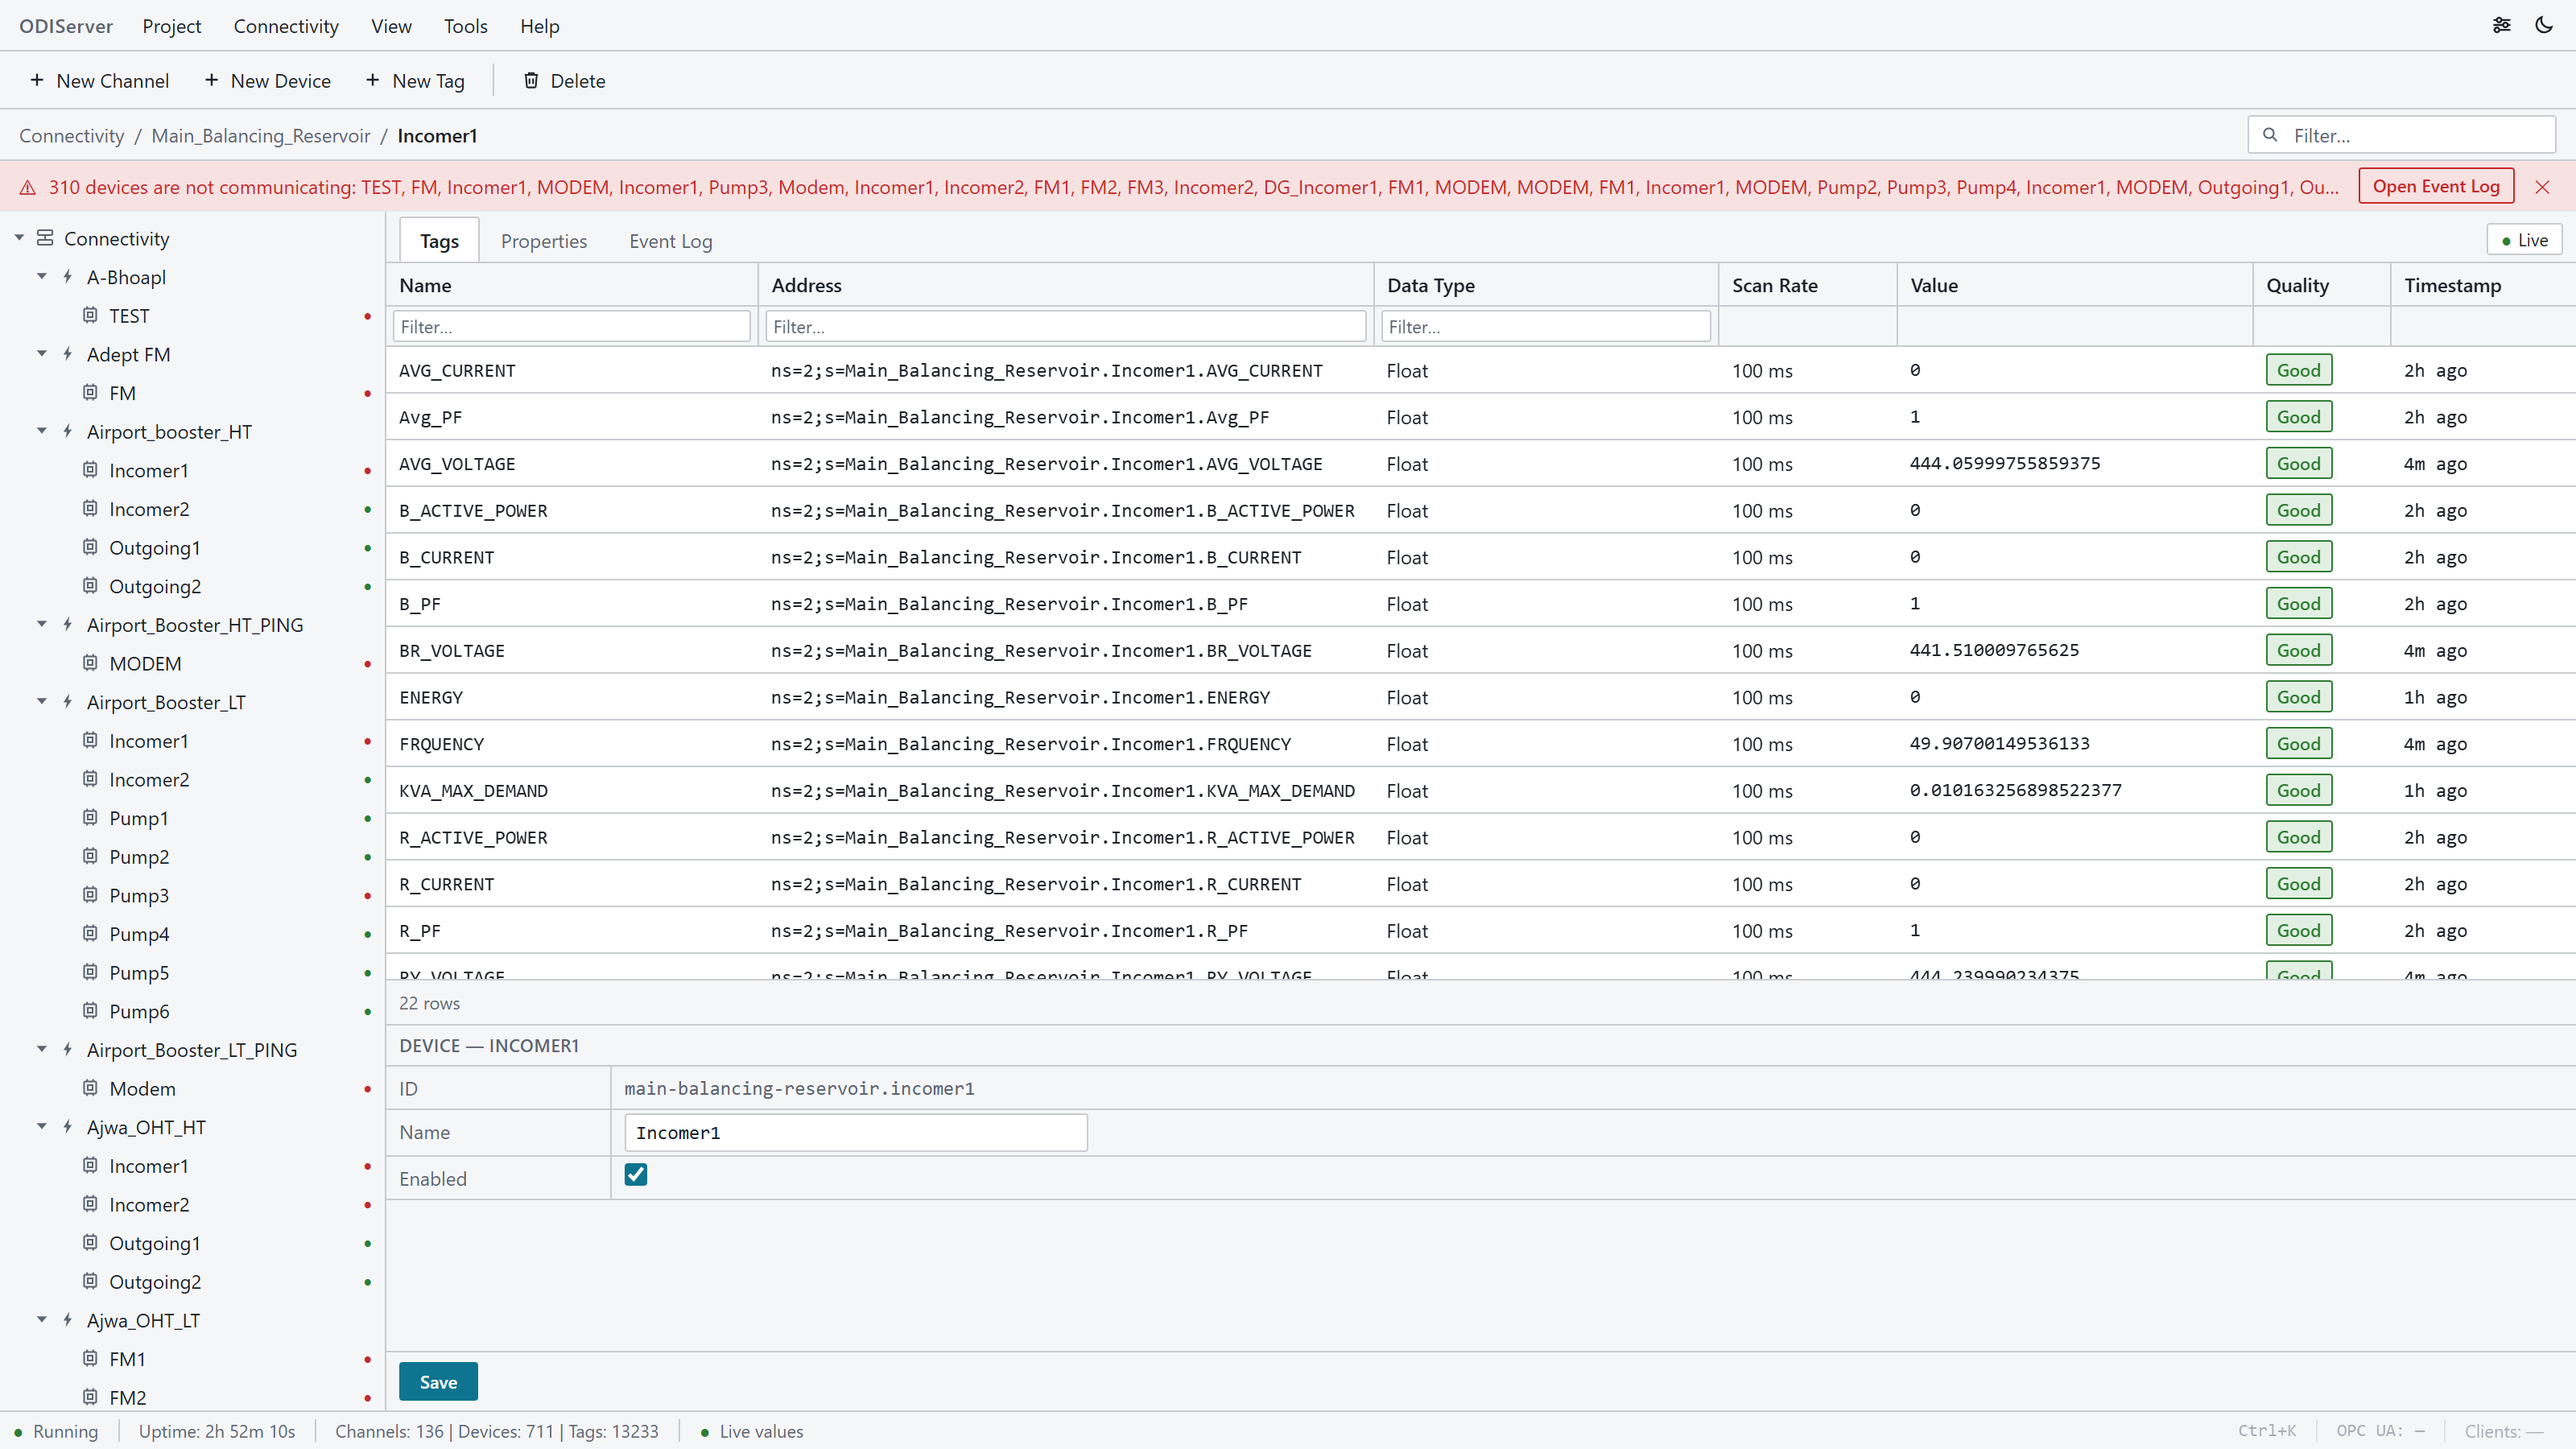
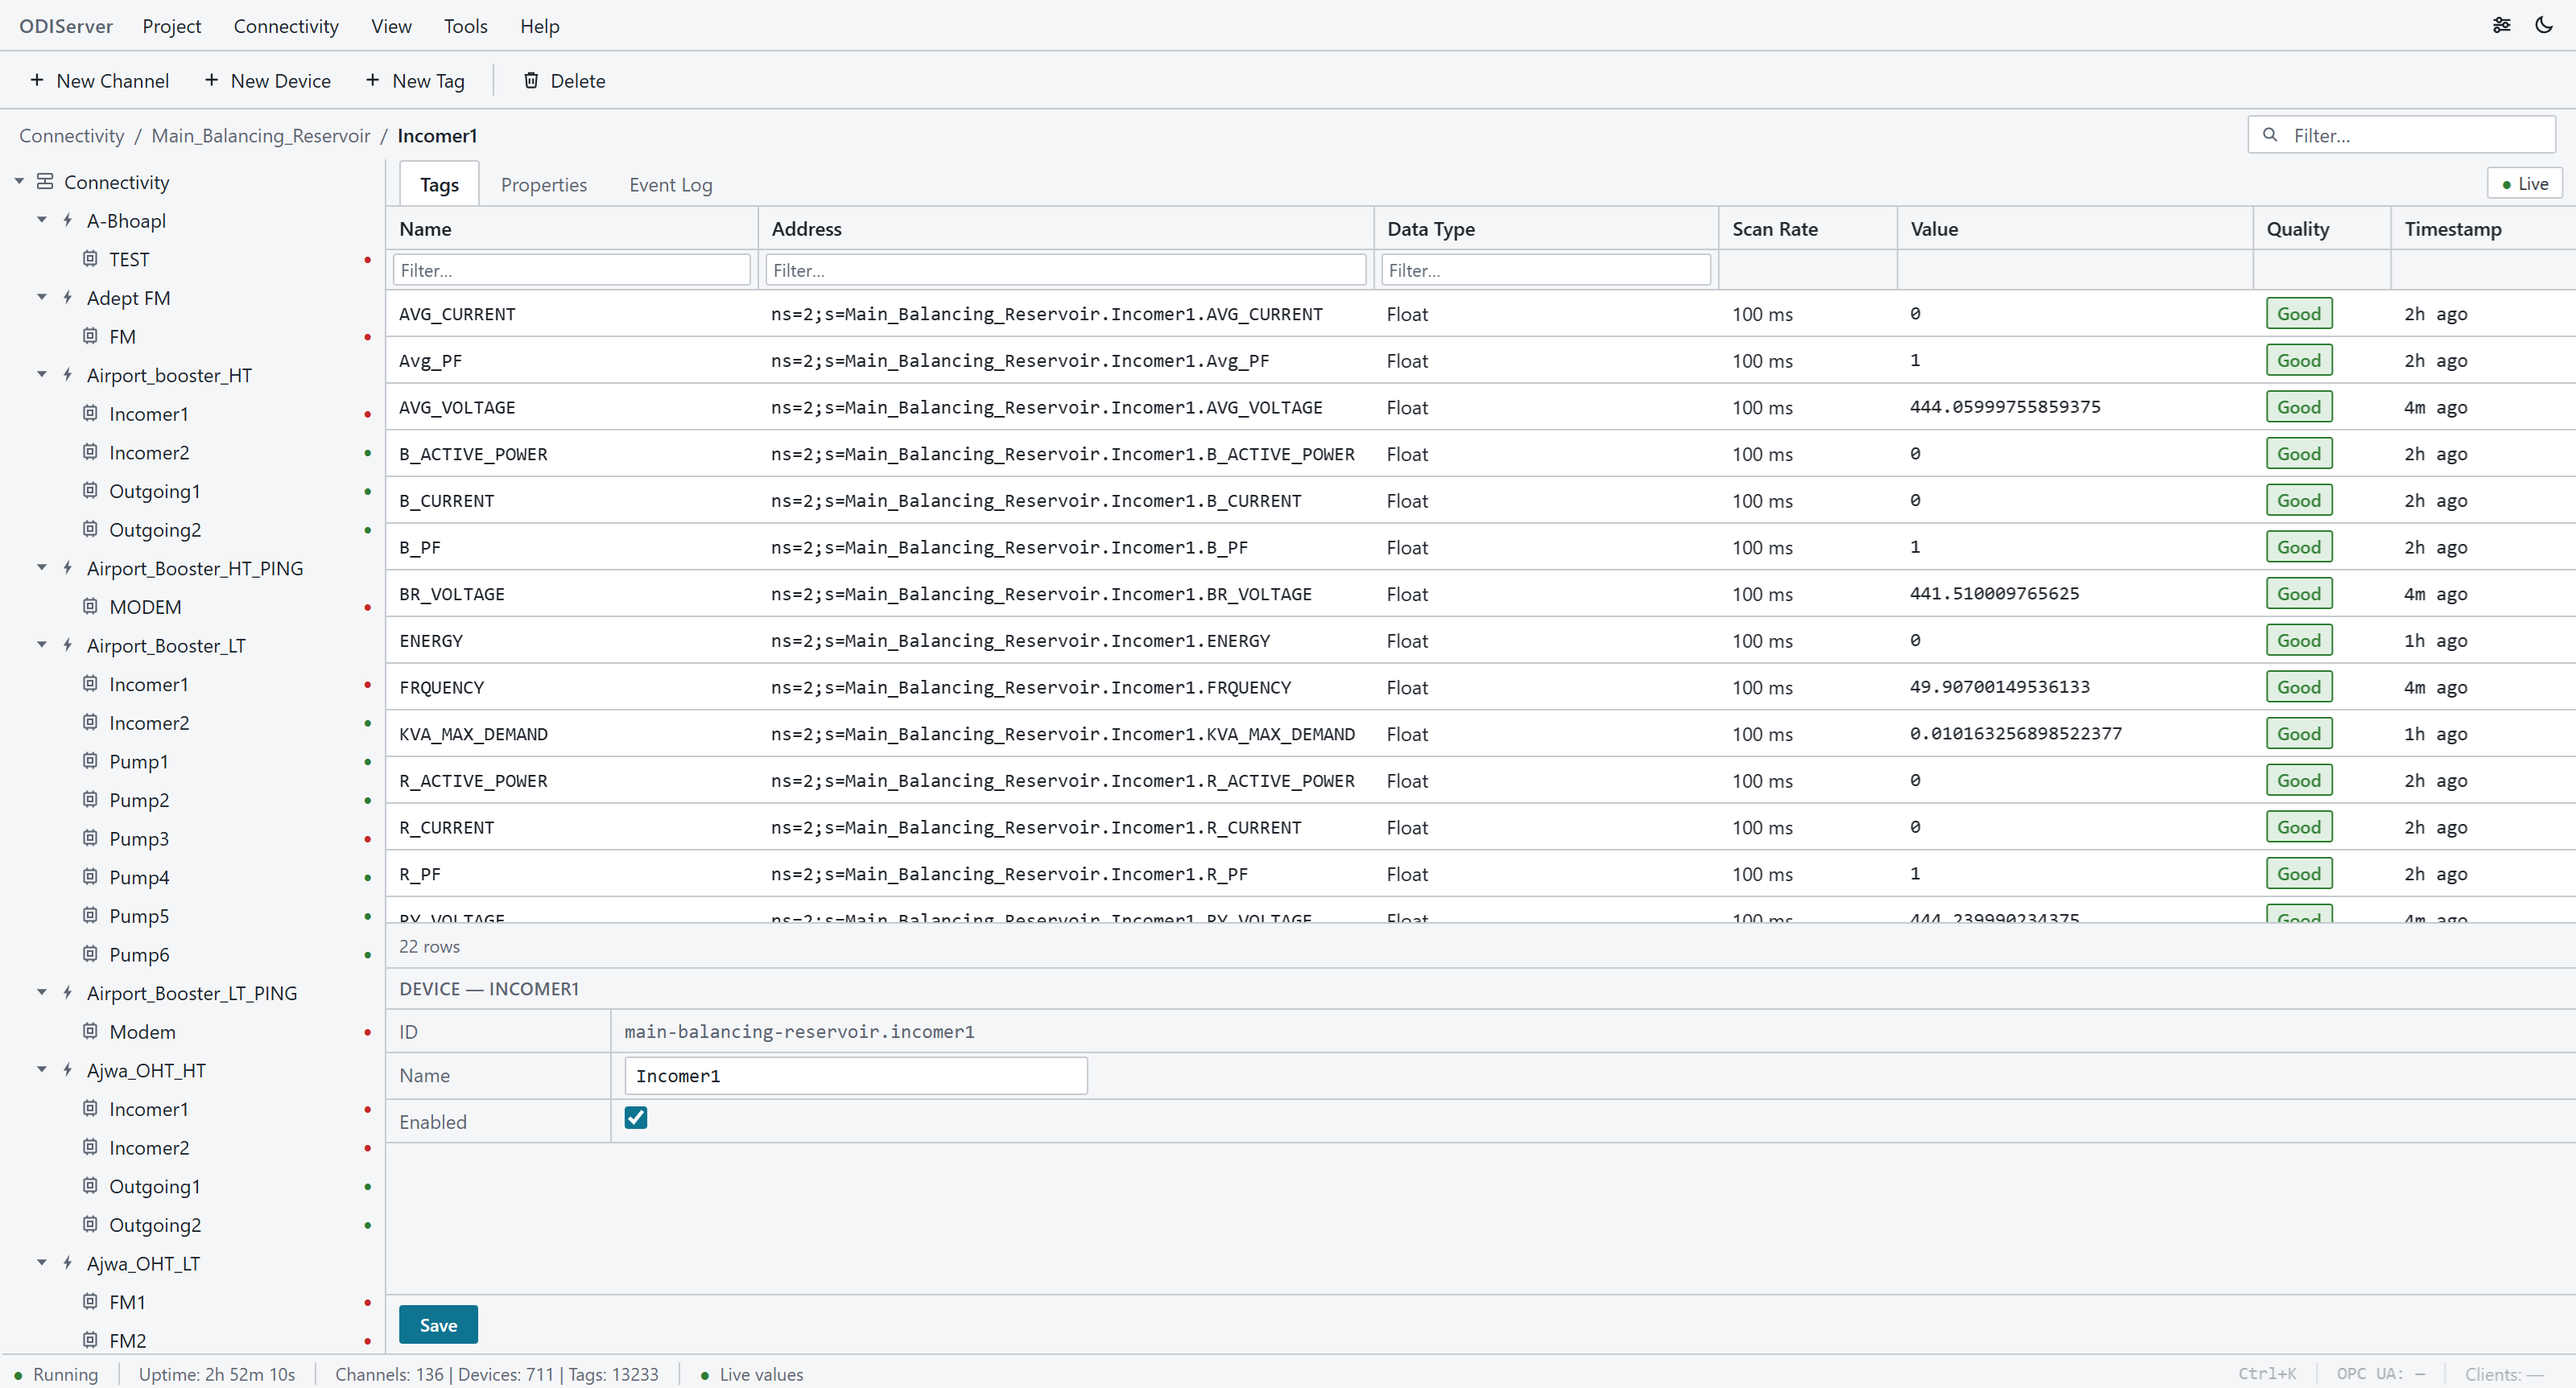
Upgrade version

Changed region(s): [[0.0, 0.0, 1.0, 0.9217], [0.0, 0.9525, 0.3125, 1.0], [0.875, 0.9832, 0.9375, 1.0]]

diff --git a/packages/web/src/App.tsx b/packages/web/src/App.tsx
@@ -395,7 +395,7 @@ export default function App() {
       >
         <div className="text-[12px] text-fg">
           <p className="text-[14px] font-semibold">ODIServer</p>
-          <p className="mt-0.5 text-muted">Open Data &amp; Interface Server — v0.1.0</p>
+          <p className="mt-0.5 text-muted">Open Data &amp; Interface Server — v0.2.0</p>
           <p className="mt-3">
             Open-source, cross-platform industrial connectivity server with device drivers,
             a live tag engine, and northbound OPC UA and MQTT interfaces.

diff --git a/packages/server/src/opcua-server.ts b/packages/server/src/opcua-server.ts
@@ -174,7 +174,7 @@ export async function startOpcUaServer(options: OpcUaServerOptions): Promise<Opc
       productName: serverName,
       productUri: "ODIServer",
       manufacturerName: "ODIServer",
-      softwareVersion: "0.1.0",
+      softwareVersion: "0.2.0",
       buildNumber: "1",
       buildDate: new Date(2024, 0, 1),
     },
